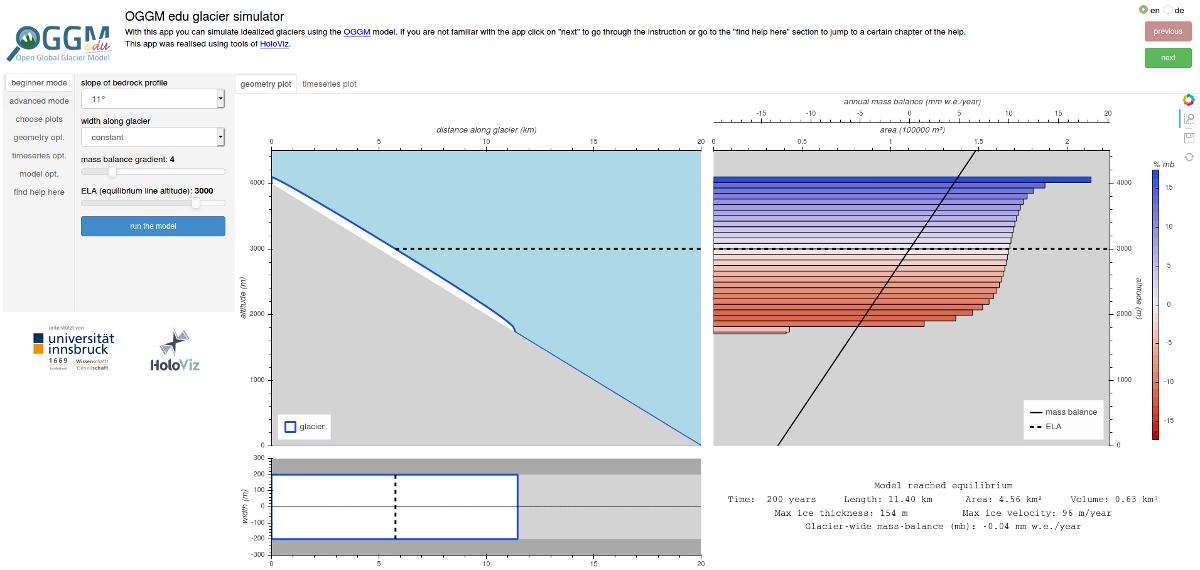
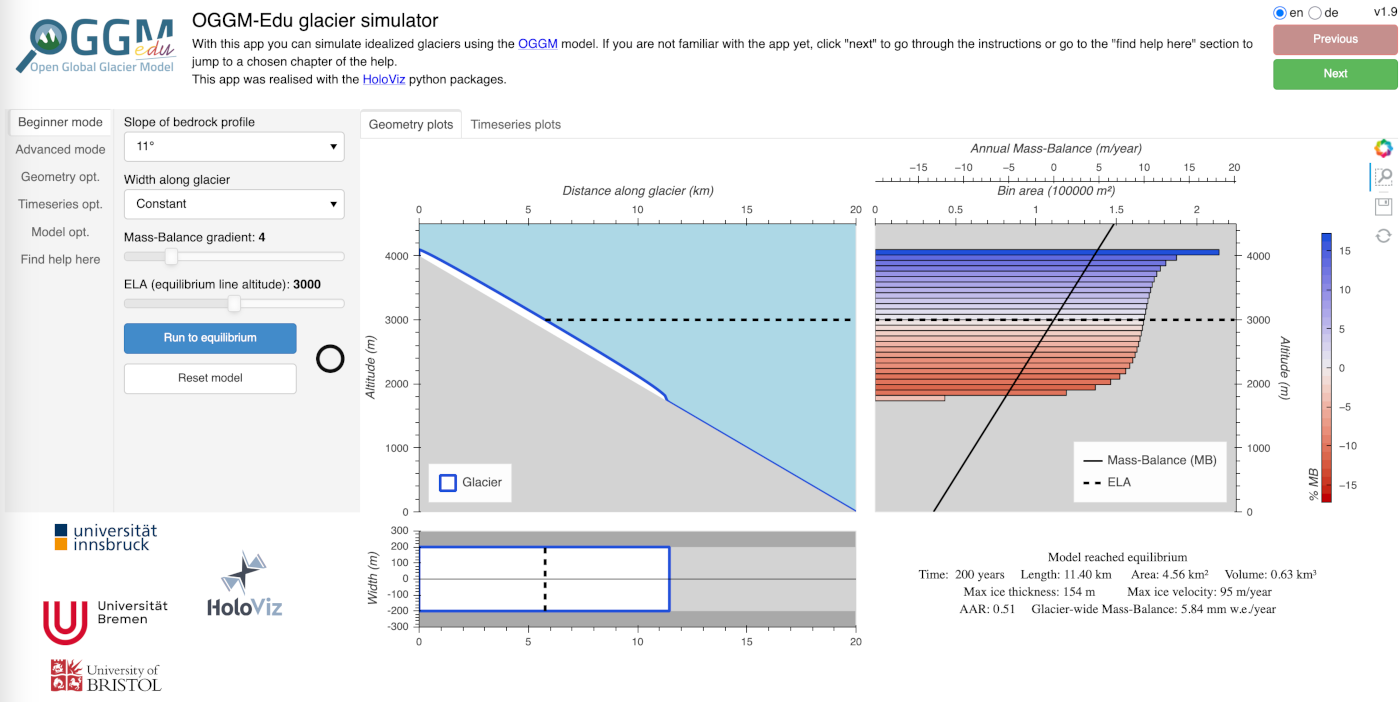
Small updates to oggm-edu packages and thumbnails (#202)

Pull request: Small updates to oggm-edu packages and thumbnails
closes https://github.com/OGGM/oggm-edu/issues/176

diff --git a/oggm_edu/glacier_collection.py b/oggm_edu/glacier_collection.py
@@ -7,6 +7,7 @@ from oggm_edu.glacier import Glacier
 from oggm_edu.funcs import edu_plotter, expression_parser
 
 # Other libraries.
+import warnings
 import pandas as pd
 import numpy as np
 from collections.abc import Sequence
@@ -74,7 +75,9 @@ class GlacierCollection:
                 }
                 # Add it to the df.
                 df2 = pd.DataFrame(json)
-                df = pd.concat([df, df2], ignore_index=True)
+                with warnings.catch_warnings():
+                    warnings.simplefilter("ignore", FutureWarning)
+                    df = pd.concat([df, df2], ignore_index=True)
 
             # Set the index name.
             df = df.reindex()

diff --git a/setup.py b/setup.py
@@ -35,7 +35,7 @@ setup(
     # For a discussion on single-sourcing the version across setup.py and the
     # project code, see
     # https://packaging.python.org/en/latest/single_source_version.html
-    version='0.0.1',  # Required
+    version='0.0.2',  # Required
 
     # This is a one-line description or tagline of what your project does. This
     # corresponds to the "Summary" metadata field: